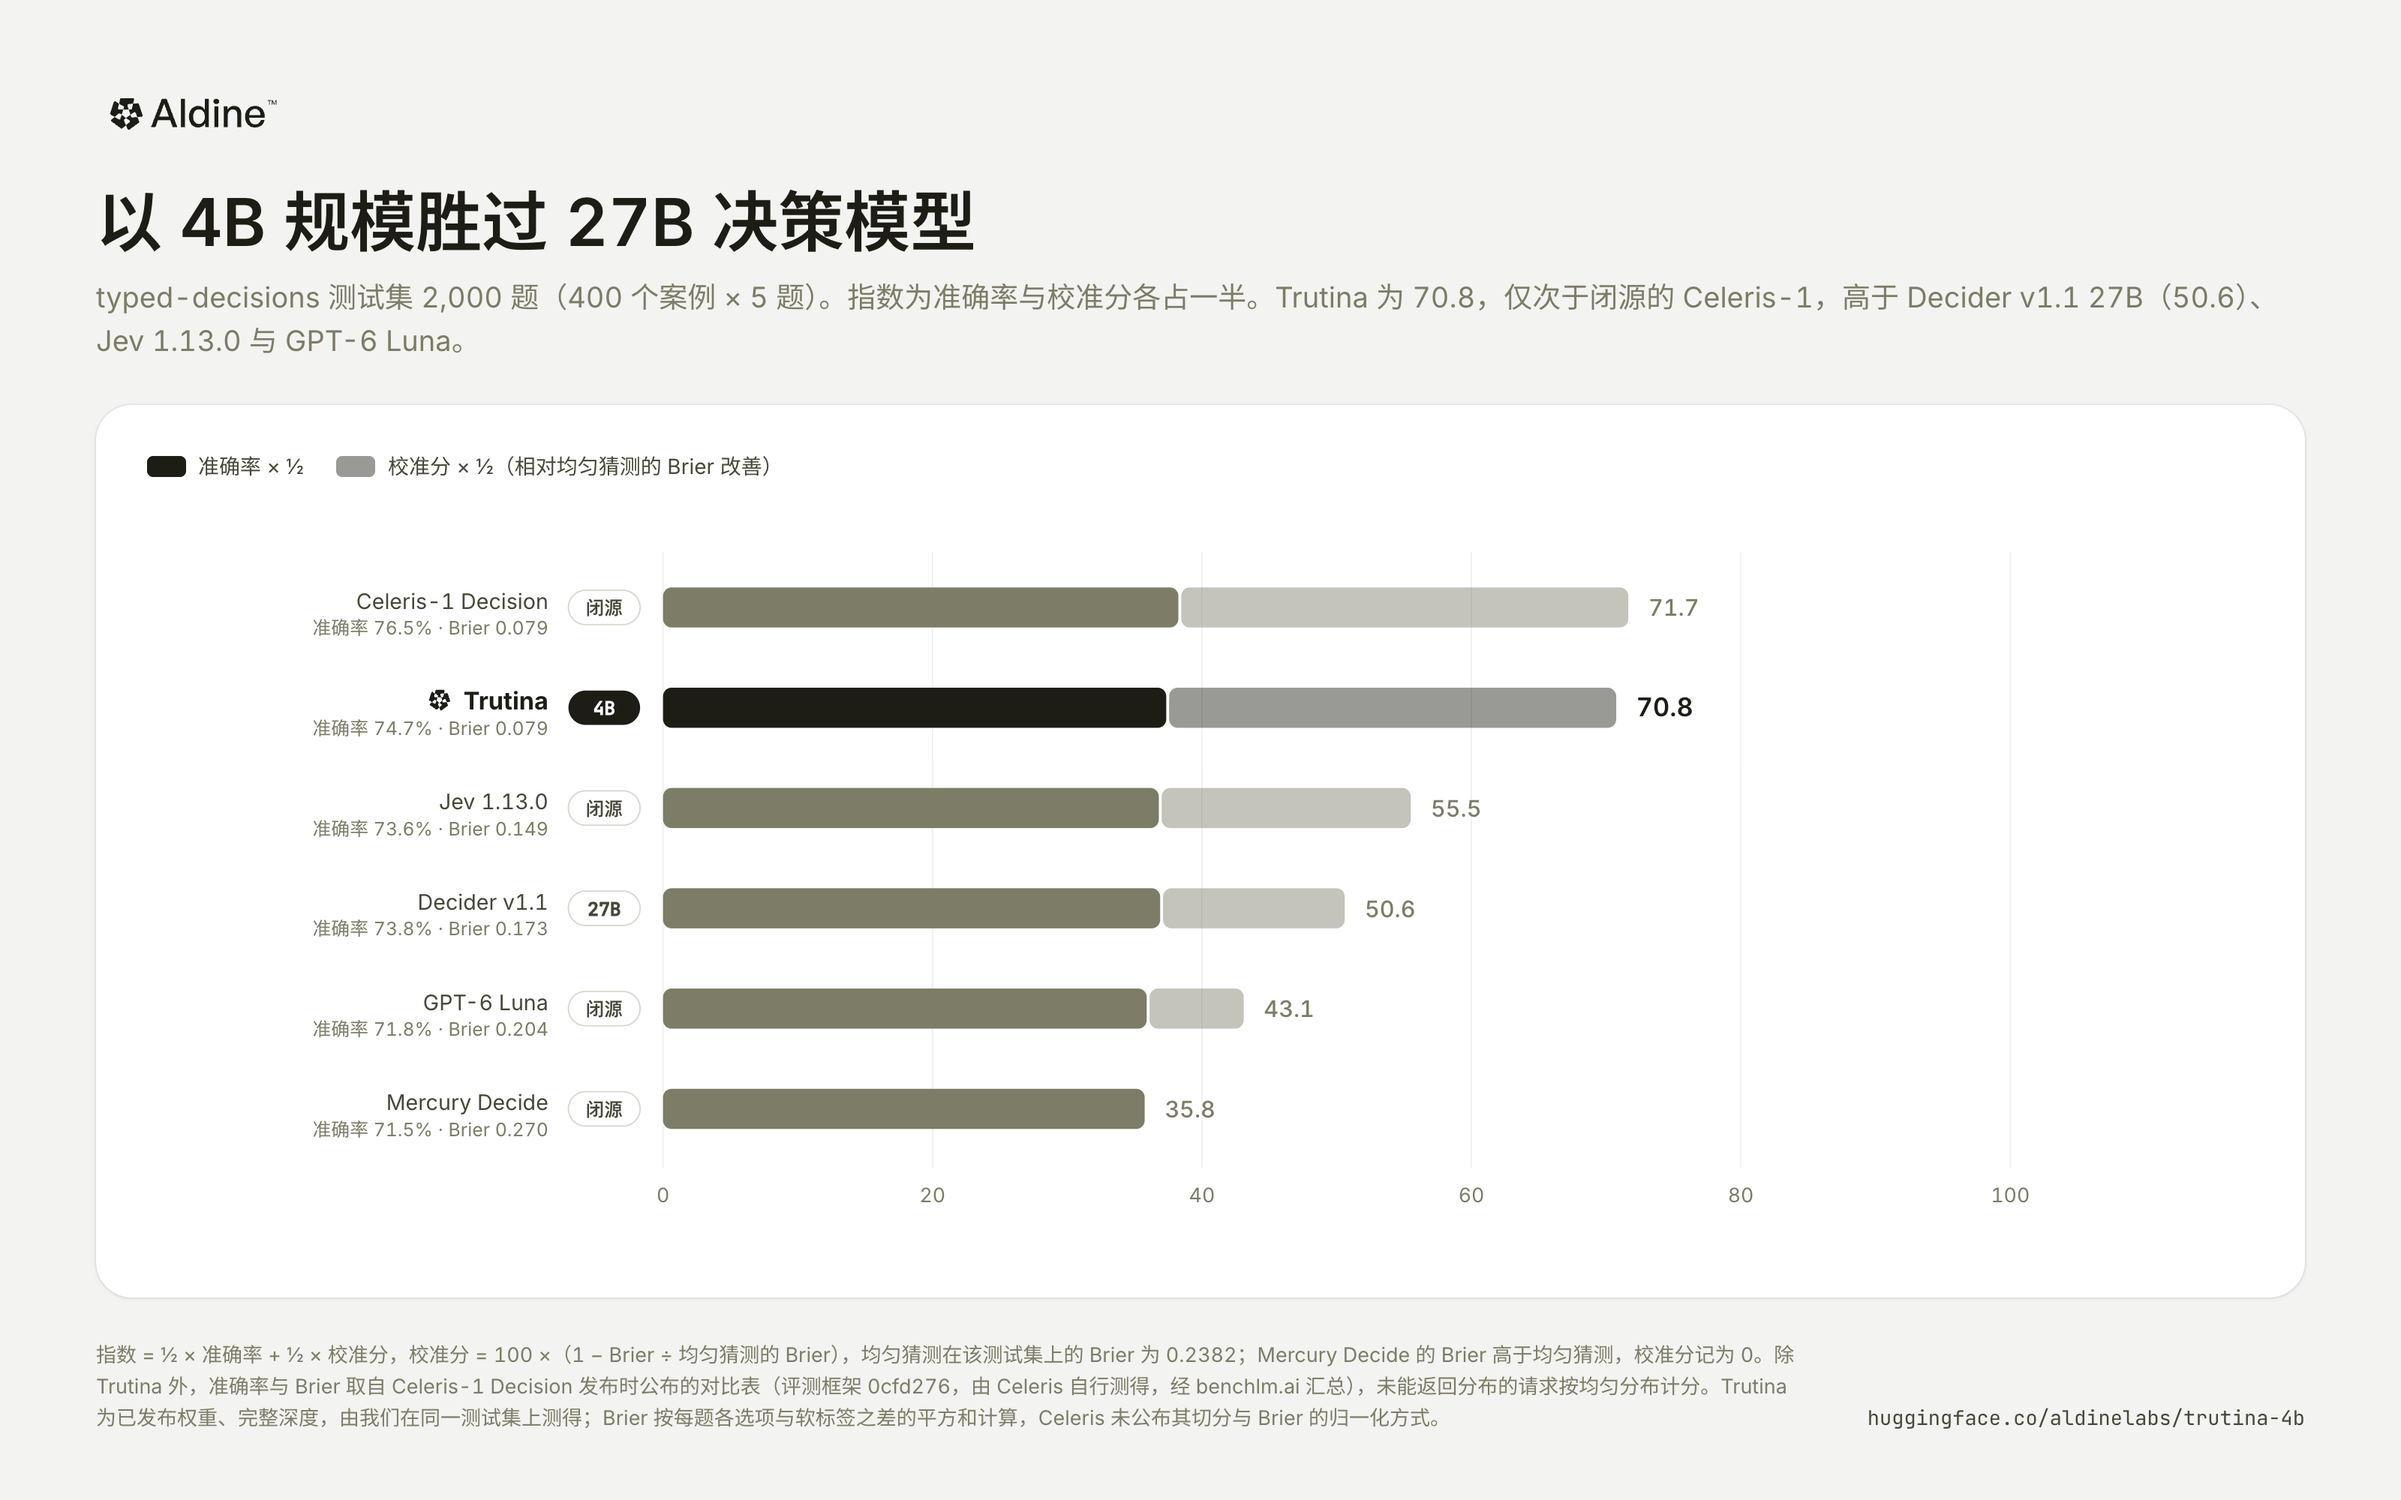
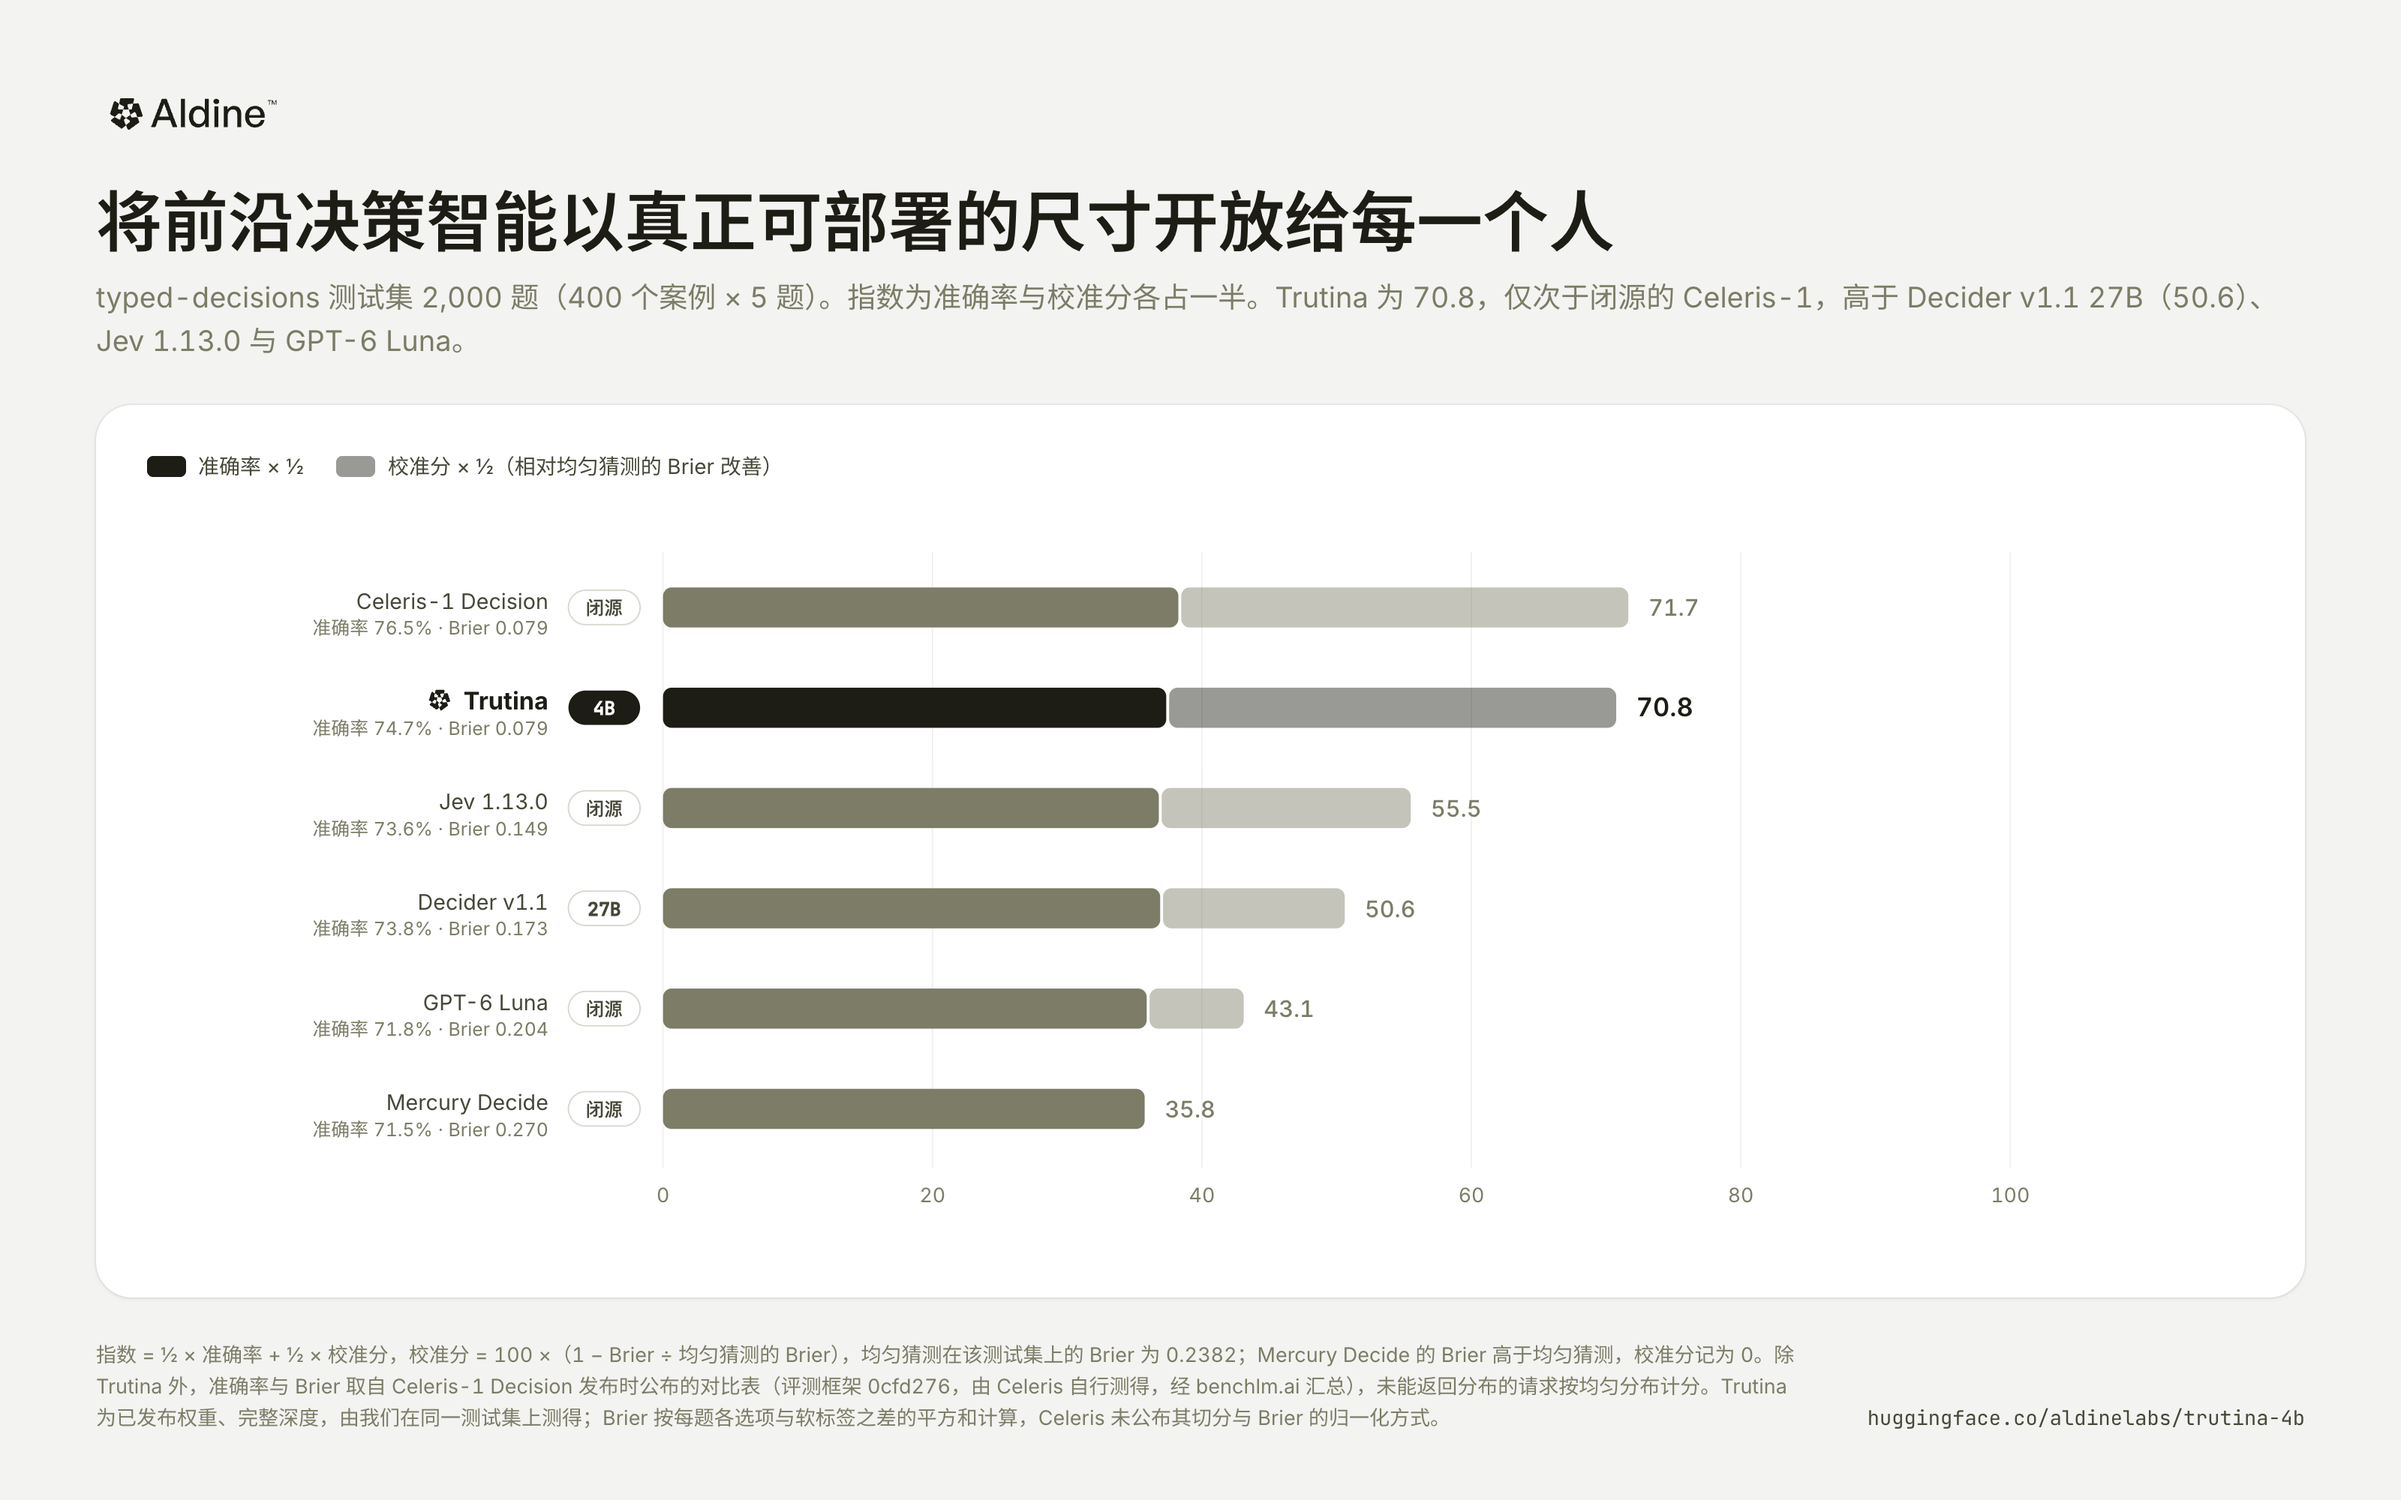
docs: typed index chart title, frontier decision intelligence open to everyone at a deployable size

Changed region(s): [[0.0312, 0.124, 0.6875, 0.186]]

diff --git a/assets/charts/charts.html b/assets/charts/charts.html
@@ -353,12 +353,12 @@ function typed() {
     <span><i><svg width="26" height="14"><rect width="26" height="14" rx="4" fill="var(--fg)" opacity=".45"/></svg></i>${zh ? "校准分 × ½（相对均匀猜测的 Brier 改善）" : "calibration × ½ (Brier improvement over a uniform guess)"}</span></div>`;
   const us = rows.find(r => r.ours), d27 = rows.find(r => r.size === "27B");
   return frame(zh ? {
-    title: "以 4B 规模胜过 27B 决策模型",
+    title: "将前沿决策智能以真正可部署的尺寸开放给每一个人",
     sub: `typed-decisions 测试集 2,000 题（400 个案例 × 5 题）。指数为准确率与校准分各占一半。Trutina 为 ${us.index.toFixed(1)}，仅次于闭源的 Celeris-1，高于 Decider v1.1 27B（${d27.index.toFixed(1)}）、Jev 1.13.0 与 GPT-6 Luna。`,
     body: `<div class="card">${legend}${svgTag(W, H)}${g}</svg></div>`,
     src: `指数 = ½ × 准确率 + ½ × 校准分，校准分 = 100 ×（1 − Brier ÷ 均匀猜测的 Brier），均匀猜测在该测试集上的 Brier 为 ${D.typed.brier_uniform}；Mercury Decide 的 Brier 高于均匀猜测，校准分记为 0。除 Trutina 外，准确率与 Brier 取自 Celeris-1 Decision 发布时公布的对比表（评测框架 0cfd276，由 Celeris 自行测得，经 benchlm.ai 汇总），未能返回分布的请求按均匀分布计分。Trutina 为已发布权重、完整深度，由我们在同一测试集上测得；Brier 按每题各选项与软标签之差的平方和计算，Celeris 未公布其切分与 Brier 的归一化方式。`,
   } : {
-    title: "At 4B, ahead of a 27B decision model",
+    title: "Frontier decision intelligence, open to everyone at a size you can deploy",
     sub: `typed-decisions test, 2,000 questions (400 cases × 5). The index weighs accuracy and calibration equally. Trutina scores ${us.index.toFixed(1)}, second only to the closed Celeris-1 and above Decider v1.1 27B (${d27.index.toFixed(1)}), Jev 1.13.0 and GPT-6 Luna.`,
     body: `<div class="card">${legend}${svgTag(W, H)}${g}</svg></div>`,
     src: `Index = ½ × accuracy + ½ × calibration, calibration = 100 × (1 − Brier ÷ the Brier of a uniform guess), which is ${D.typed.brier_uniform} on this test; Mercury Decide's Brier is above the uniform guess's, so its calibration counts as 0. Other systems' accuracy and Brier: the table Celeris published with Celeris-1 Decision (harness 0cfd276, measured by Celeris, collected by benchlm.ai), requests without a distribution scored as uniform. Trutina: released weights at full depth, measured by us on the same test; Brier is the per-question sum over options of the squared difference to the soft label. Celeris did not publish its split or Brier normalisation.`,
